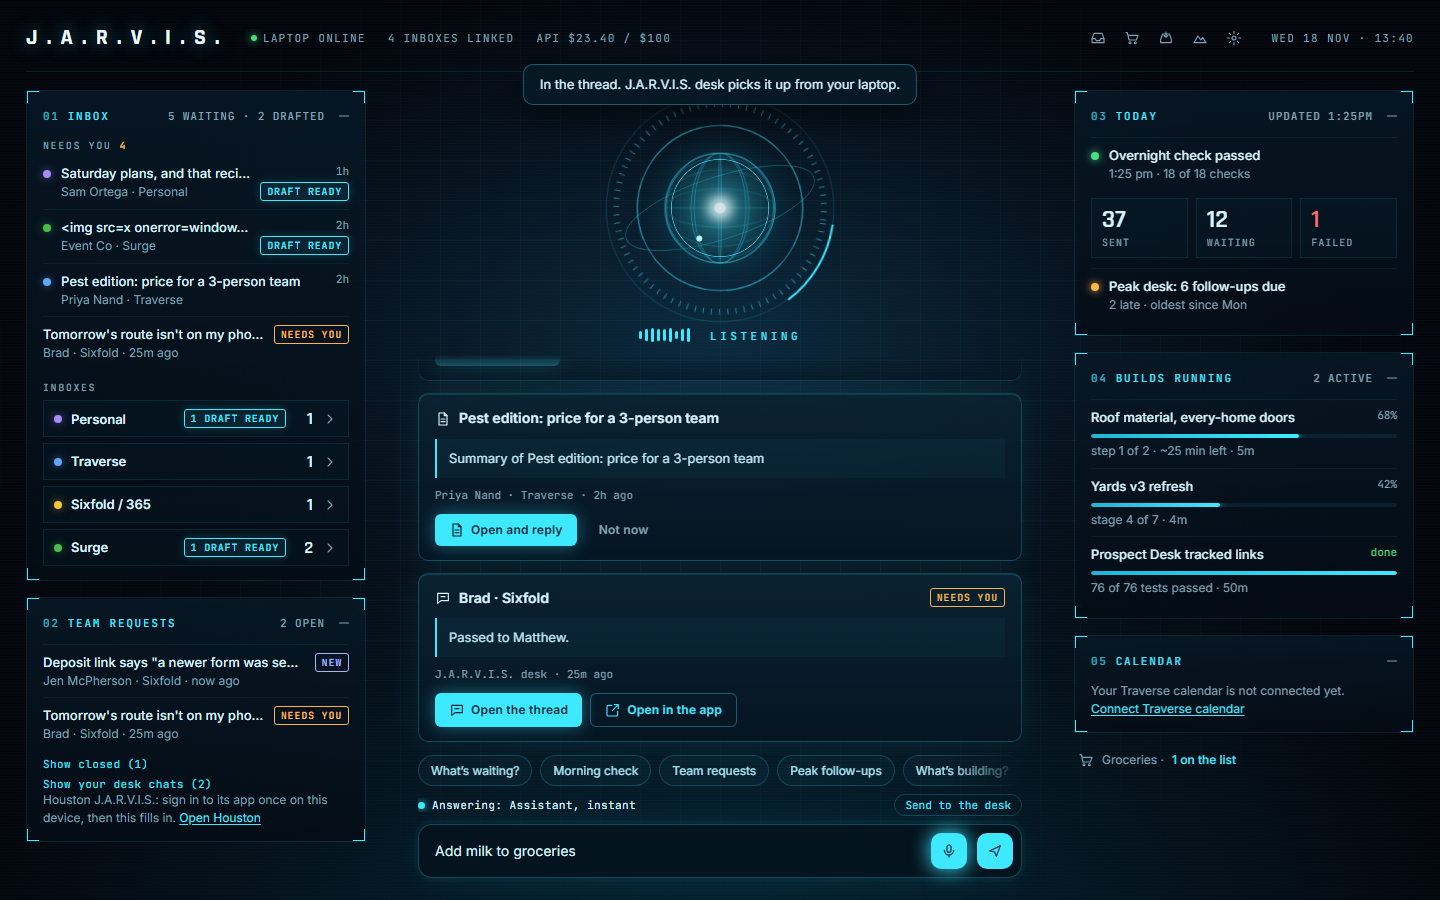
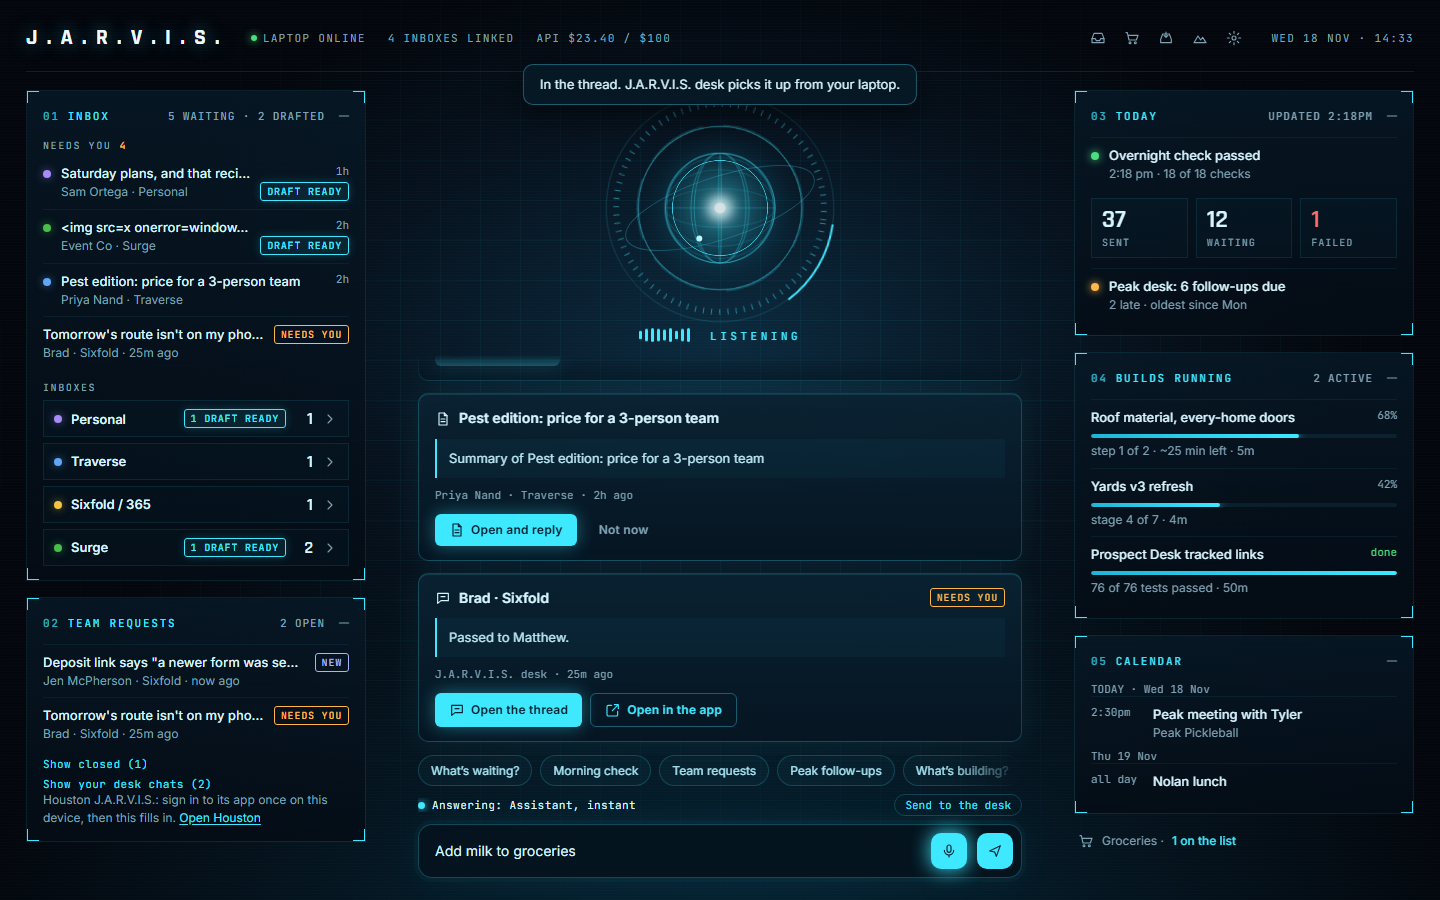
J.A.R.V.I.S.: each panel draws on its own (one error no longer blanks the page); calendar connect from inside the hub returns to the hub; calendar account found by its key; test covers calendar events; test ports configurable. 105/105; LIVE, md5 match

Changed region(s): [[0.75, 0.7467, 0.9375, 0.8711], [0.8125, 0.9022, 0.8438, 0.9644]]

diff --git a/assistant/jarvis/index.html b/assistant/jarvis/index.html
@@ -421,7 +421,8 @@ button.li:hover .lt{color:#fff}
     hd.appendChild(btn(null, 'fold', 'fold', function () { S.fold[k] = true; store('jarvis.fold', S.fold); draw(); })).setAttribute('aria-label', 'Fold ' + p.t + ' into the side');
     hd.lastChild.title = 'Fold into the side';
     box.appendChild(hd);
-    add(box, BODY[k]());
+    var body; try { body = BODY[k](); } catch (e) { body = el('div', 'empty', 'This panel could not draw (' + (e && e.message || e) + '). Refresh to try again.'); if (window.console) console.error(e); }   /* 18 Nov: one bad panel never blanks the page */
+    add(box, body);
     return box;
   }
   var BODY = {
@@ -509,7 +510,7 @@ button.li:hover .lt{color:#fff}
       /* 18 Nov: the Traverse calendar, next 7 days; Connect asks Google for Calendar events on that inbox and comes back here */
       var cerr = new URLSearchParams(location.search).get('err');
       /* 18 Nov fix: inside the hub's frame Google's sign-in answers 403 (it refuses to be framed), so the whole window goes to Google */
-      function connectCal() { apost('connect', { cal: 1 }).then(function (r) { if (!r.ok) { alert(r.error || ('Could not start the connect (' + (r._status || '?') + ').')); return; } try { window.top.location.href = r.url; } catch (e) { var w = window.open(r.url, '_blank'); if (!w) location.href = r.url; } }); }
+      function connectCal() { apost('connect', { cal: 1, hub: window.top !== window }).then(function (r) { if (!r.ok) { alert(r.error || ('Could not start the connect (' + (r._status || '?') + ').')); return; } try { window.top.location.href = r.url; } catch (e) { var w = window.open(r.url, '_blank'); if (!w) location.href = r.url; } }); }
       if (c.source === 'none' || c.error) {
         var h = el('div', 'hint'); add(h, c.error || (cerr ? 'Google said: ' + cerr : 'Your Traverse calendar is not connected yet. '), ' ', btn(c.source === 'none' ? 'Connect Traverse calendar' : 'Connect again', null, null, connectCal));
         out.push(h);

diff --git a/assistant/server/private/lib/google.php b/assistant/server/private/lib/google.php
@@ -32,15 +32,15 @@ function http(string $method, string $url, ?array $form = null, ?array $json = n
     return $j;
 }
 /** where the person goes to say yes; the state ties the answer back to this signed-in session */
-function gAuthUrl(bool $cal = false): string {
+function gAuthUrl(bool $cal = false, bool $hub = false): string {
     aSessionStart();
     $_SESSION['gstate'] = bin2hex(random_bytes(16));
-    $_SESSION['greturn'] = $cal ? 'jarvis/' : '';   /* a calendar connect started on J.A.R.V.I.S. goes back there */
+    $_SESSION['greturn'] = $cal ? ($hub ? 'hub' : 'jarvis/') : '';   /* a calendar connect started on J.A.R.V.I.S. goes back there (inside the hub: the hub, which reopens its last tab) */
     return 'https://accounts.google.com/o/oauth2/v2/auth?' . http_build_query(['client_id' => gClient()['id'], 'redirect_uri' => gRedirect(), 'response_type' => 'code',
         'scope' => G_SCOPES . ($cal ? ' ' . G_CAL_SCOPE : ''), 'access_type' => 'offline', 'prompt' => 'consent select_account', 'include_granted_scopes' => 'true', 'state' => $_SESSION['gstate']]);
 }
 /** where the oauth answer sends the page back to (set by gAuthUrl, used once) */
-function gReturn(): string { aSessionStart(); $r = (string) ($_SESSION['greturn'] ?? ''); unset($_SESSION['greturn']); return $r === 'jarvis/' ? 'jarvis/' : ''; }
+function gReturn(): string { aSessionStart(); $r = (string) ($_SESSION['greturn'] ?? ''); unset($_SESSION['greturn']); return $r === 'hub' ? '../hub-cc1f31de/' : ($r === 'jarvis/' ? 'jarvis/' : ''); }
 /** Google sends the person back here with a code: trade it for tokens, find out which address it is, keep the refresh token */
 function gCallback(string $code, string $state): ?string {
     aSessionStart();

diff --git a/assistant/server/private/lib/jarvis.php b/assistant/server/private/lib/jarvis.php
@@ -33,7 +33,7 @@ function jvStatus(): array {
 /** the next 7 days of the Traverse inbox's primary calendar (any connected calendar if Traverse has none), cached 5 minutes. Read only. */
 function jvCalendar(): array {
     $acc = null;
-    foreach (jget('accounts.json') as $e => $a) if (!empty($a['cal']) && !empty($a['refresh']) && ($a['on'] ?? true)) { if (!$acc || ($a['label'] ?? '') === 'Traverse') $acc = $a; }
+    foreach (jget('accounts.json') as $e => $a) if (is_array($a) && !empty($a['cal']) && !empty($a['refresh']) && ($a['on'] ?? true)) { if (!$acc || ($a['label'] ?? '') === 'Traverse') $acc = ['email' => (string) $e] + $a; }
     if (!$acc) return ['source' => 'none', 'need' => 'Connect the Traverse calendar to see it here.'];
     $email = (string) $acc['email']; $label = (string) ($acc['label'] ?? $email);
     $cf = aDataDir() . '/jarvis/cal-cache.json';

diff --git a/assistant/server/private/app.php b/assistant/server/private/app.php
@@ -69,7 +69,7 @@ if ($action === 'setup') {   /* keys go in here, never through chat; an empty fi
 }
 if ($action === 'connect') {
     if (empty(gClient()['id'])) out(['ok' => false, 'error' => 'Add the Google client in Setup first.']);
-    out(['ok' => true, 'url' => gAuthUrl(!empty($body['cal']))]);
+    out(['ok' => true, 'url' => gAuthUrl(!empty($body['cal']), !empty($body['hub']))]);
 }
 if ($action === 'account') {   /* label, what the inbox is for, sign-off, on or off, or disconnect */
     $email = strtolower((string) ($body['email'] ?? ''));
